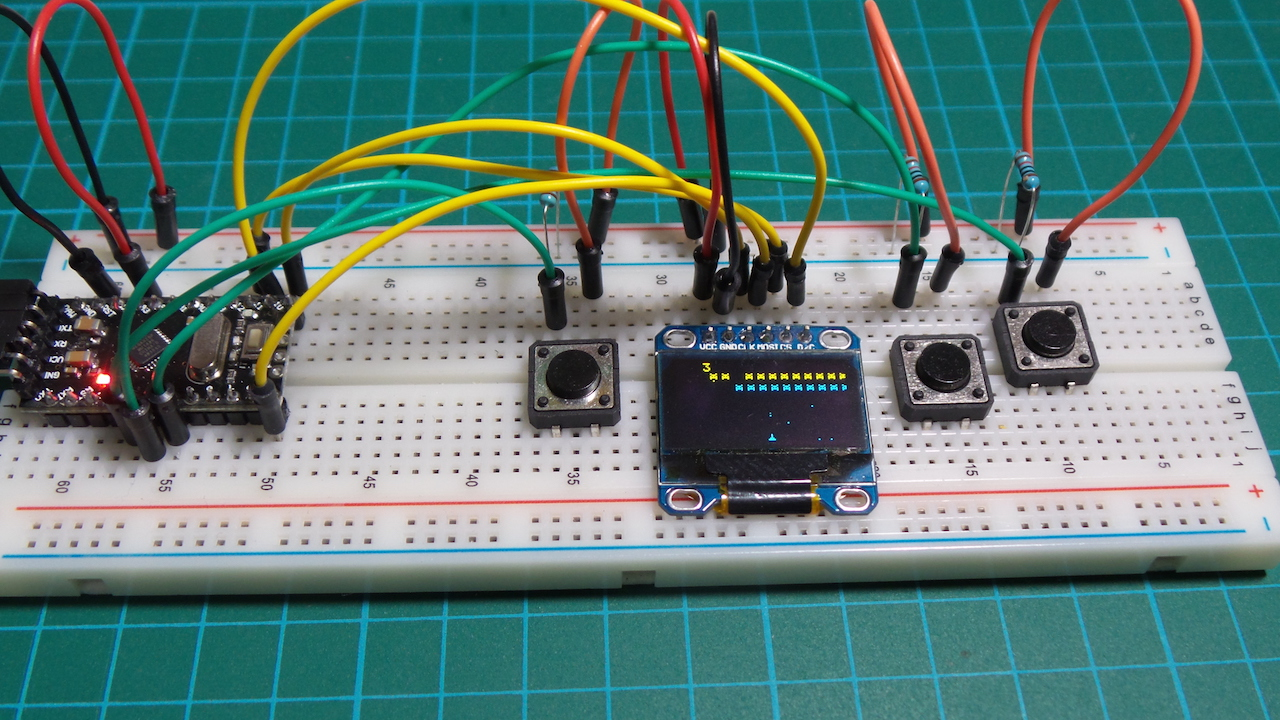
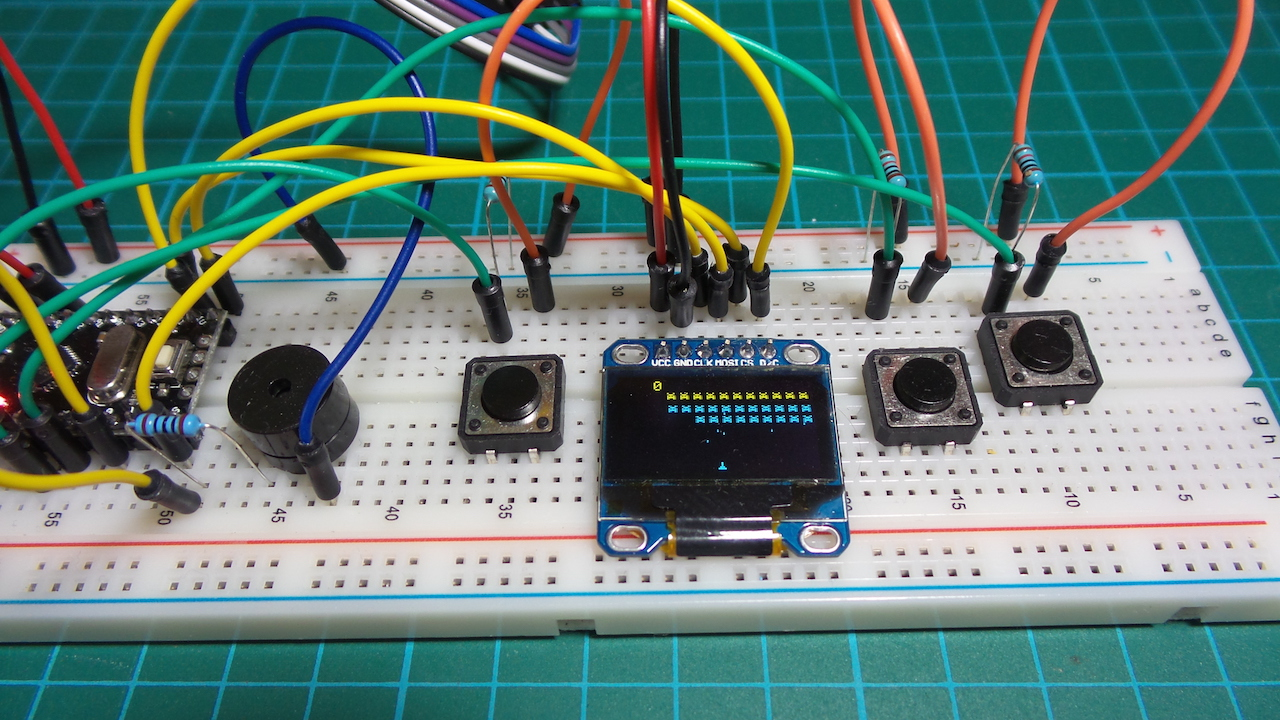
[ArdWinVaders] updated assets and video link

diff --git a/playground/OLED/ArdWinVaders/README.md b/playground/OLED/ArdWinVaders/README.md
@@ -4,7 +4,9 @@ An Arduino & OLED version of a classic game.
 
 Here's a quick video of the game in action:
 
-[![ArdWinVaders](http://img.youtube.com/vi/m0XgdGztr8s/0.jpg)](http://www.youtube.com/watch?v=m0XgdGztr8s)
+[![ArdWinVaders](http://img.youtube.com/vi/GBX0n_YXXcs/0.jpg)](http://www.youtube.com/watch?v=GBX0n_YXXcs)
+
+[This is the initial video](http://youtu.be/m0XgdGztr8s) before the screen optimisations or sound. There's a huge performance difference!
 
 ## Notes
 
